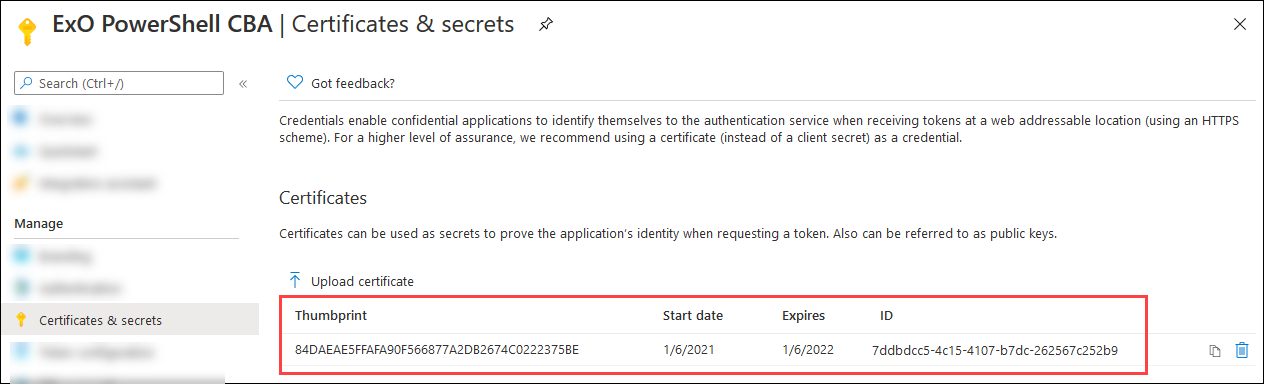
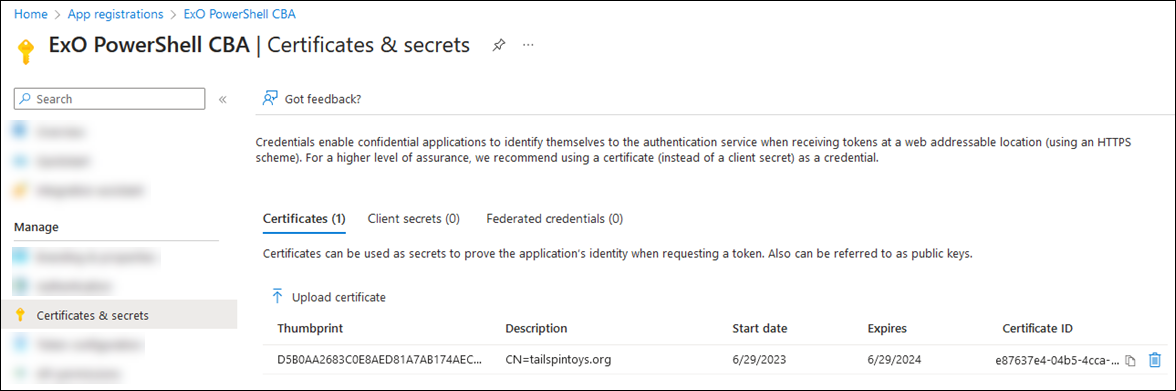
AAD to MSGraph

diff --git a/exchange/docs-conceptual/app-only-auth-powershell-v2.md b/exchange/docs-conceptual/app-only-auth-powershell-v2.md
@@ -3,7 +3,7 @@ title: App-only authentication in Exchange Online PowerShell and Security & Comp
 ms.author: chrisda
 author: chrisda
 manager: dansimp
-ms.date: 6/21/2023
+ms.date: 6/30/2023
 ms.audience: Admin
 audience: Admin
 ms.topic: article
@@ -294,15 +294,15 @@ After you register the certificate with your application, you can use the privat
 
    ![Select Certificates & Secrets on the application properties page.](media/exo-app-only-auth-select-certificates-and-secrets.png)
 
-3. On the **Certificates & secrets** page that opens, select **Upload certificate**.
+3. On the **Certificates & secrets** page that opens, select the **Certificates** tab, and then select **Upload certificate**.
 
    ![Select Upload certificate on the Certificates & secrets page.](media/exo-app-only-auth-select-upload-certificate.png)
 
-   In the dialog that opens, browse to the self-signed certificate (`.cer` file) that you created in [Step 3](#step-3-generate-a-self-signed-certificate).
+   In the **Upload certificate** flyout that opens, browse to the self-signed certificate (`.cer` file) that you created in [Step 3](#step-3-generate-a-self-signed-certificate).
 
    ![Browse to the certificate and then select Add.](media/exo-app-only-auth-upload-certificate-dialog.png)
 
-   When you're finished, select **Add**.
+   When you're finished in the **Upload certificate** flyout, select **Add**.
 
    The certificate is now shown in the **Certificates** section.
 
@@ -414,26 +414,30 @@ For information about creating custom role groups, see [Create role groups in Ex
 
 To assign custom role groups to the application using service principals, do the following steps:
 
-1. In [Azure Active Directory PowerShell for Graph](/powershell/azure/active-directory/install-adv2), run the following command to store the details of the Azure application that you registered in [Step 1](#step-1-register-the-application-in-azure-ad) in a variable:
+1. In [Microsoft Graph PowerShell](/powershell/microsoftgraph/get-started#sign-in), run the following commands to store the details of the Azure application that you registered in [Step 1](#step-1-register-the-application-in-azure-ad) in a variable:
 
    ```powershell
-   $<VariableName1> = Get-AzureADServicePrincipal -SearchString "<AppName>"
+   Connect-MgGraph -Scopes 'Application.Read.All'
+
+   $<VariableName1> = Get-MgApplication -ConsistencyLevel eventual -Search '"DisplayName:<AppName>"'
    ```
 
    For example:
 
    ```powershell
-   $AADApp = Get-AzureADServicePrincipal -SearchString "ExO PowerShell CBA"
+   Connect-MgGraph -Scopes 'Application.Read.All'
+
+   $AADApp = Get-MgApplication -ConsistencyLevel eventual -Search '"DisplayName:ExO PowerShell CBA"'
    ```
 
-   For detailed syntax and parameter information, see [Get-AzureADServicePrincipal](/powershell/module/azuread/get-azureadserviceprincipal).
+   For detailed syntax and parameter information, see [Get-MgApplication](/powershell/module/microsoft.graph.applications/get-mgapplication).
 
 2. In the same PowerShell window, connect to [Exchange Online PowerShell](connect-to-exchange-online-powershell.md) or [Security & Compliance PowerShell](connect-to-scc-powershell.md) and run the following commands to:
    - Create a service principal object for the Azure application.
    - Store the details of the service principal in a variable.
 
    ```powershell
-   New-ServicePrincipal -AppId $<VariableName1>.AppId -ServiceId $<VariableName1>.ObjectId -DisplayName "<Descriptive Name>"
+   New-ServicePrincipal -AppId $<VariableName1>.AppId -ServiceId $<VariableName1>.Id -DisplayName "<Descriptive Name>"
 
    $<VariableName2> = Get-ServicePrincipal -Identity "<Descriptive Name>"
    ```
@@ -441,7 +445,7 @@ To assign custom role groups to the application using service principals, do the
    For example:
 
    ```powershell
-   New-ServicePrincipal -AppId $AADApp.AppId -ServiceId $AADApp.ObjectId -DisplayName "SP for Azure App ExO PowerShell CBA"
+   New-ServicePrincipal -AppId $AADApp.AppId -ServiceId $AADApp.Id -DisplayName "SP for Azure App ExO PowerShell CBA"
 
    $SP = Get-ServicePrincipal -Identity "SP for Azure App ExO PowerShell CBA"
    ```
